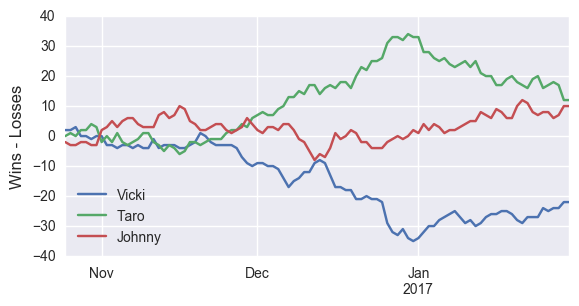
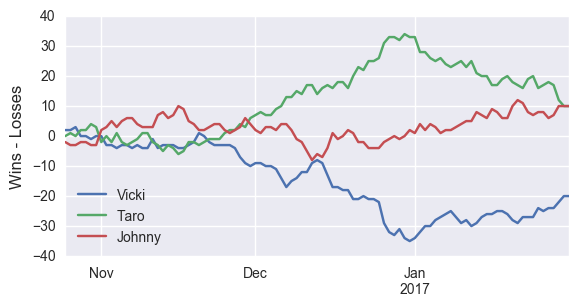
update 1/31

diff --git a/index.html b/index.html
@@ -35,32 +35,32 @@
 <a id="the-bet-is-on" class="anchor" href="#the-bet-is-on" aria-hidden="true"><span aria-hidden="true" class="octicon octicon-link"></span></a>The bet is on.</h1>
 
 <h1>
-<a id="current-winner-of-2016-17-season" class="anchor" href="#current-winner-of-2016-17-season" aria-hidden="true"><span aria-hidden="true" class="octicon octicon-link"></span></a>Current winner of 2016-17 Season (as of 1/30/2017):</h1>
+<a id="current-winner-of-2016-17-season" class="anchor" href="#current-winner-of-2016-17-season" aria-hidden="true"><span aria-hidden="true" class="octicon octicon-link"></span></a>Current winner of 2016-17 Season (as of 1/31/2017):</h1>
 
 <h2>
-<a id="none" class="anchor" href="#none" aria-hidden="true"><span aria-hidden="true" class="octicon octicon-link"></span></a><strong>Taro</strong>
+<a id="none" class="anchor" href="#none" aria-hidden="true"><span aria-hidden="true" class="octicon octicon-link"></span></a><strong>Johnny</strong>
 </h2>
 
 <h2>
 <a id="johnny" class="anchor" href="Johnny.html" aria-hidden="true"><span aria-hidden="true" class="octicon octicon-link"></span>Johnny</a></h2>
 
-<p>Wins: 244<br>
-Losses: 234<br>
-Remaining wins available: 293</p>
+<p>Wins: 246<br>
+Losses: 236<br>
+Remaining wins available: 291</p>
 
 <h2>
 <a id="taro" class="anchor" href="Taro.html" aria-hidden="true"><span aria-hidden="true" class="octicon octicon-link"></span>Taro</a></h2>
 
 <p>Wins: 246<br>
-Losses: 234<br>
-Remaining wins available: 290</p>
+Losses: 236<br>
+Remaining wins available: 289</p>
 
 <h2>
 <a id="vicki" class="anchor" href="Vicki.html" aria-hidden="true"><span aria-hidden="true" class="octicon octicon-link"></span>Vicki</a></h2>
 
-<p>Wins: 227<br>
-Losses: 249<br>
-Remaining wins available: 293</p>
+<p>Wins: 231<br>
+Losses: 251<br>
+Remaining wins available: 290</p>
 
 <img src='pythoncode/win_percent.png' alt='Winning Percentage Over Time'>
 <h1>

diff --git a/Vicki.html b/Vicki.html
@@ -35,9 +35,9 @@
 
 <h2>Vicki</h2>
 
-<p>Wins: 227<br>
-Losses: 249<br>
-Remaining wins available: 293</p>
+<p>Wins: 231<br>
+Losses: 251<br>
+Remaining wins available: 290</p>
 
 <h2> Current teams </h2>
 <table border="1">
@@ -49,15 +49,15 @@ Remaining wins available: 293</p>
 </tr>
 <tr>
 <td>Heat</td>
-<td>18</td>
+<td>19</td>
 <td>30</td>
-<td>34</td>
+<td>33</td>
 </tr>
 <tr>
 <td>Mavericks</td>
-<td>17</td>
+<td>18</td>
 <td>30</td>
-<td>35</td>
+<td>34</td>
 </tr>
 <tr>
 <td>Trail Blazers</td>
@@ -68,8 +68,8 @@ Remaining wins available: 293</p>
 <tr>
 <td>Cavaliers</td>
 <td>32</td>
-<td>14</td>
-<td>36</td>
+<td>15</td>
+<td>35</td>
 </tr>
 <tr>
 <td>Bulls</td>
@@ -79,15 +79,15 @@ Remaining wins available: 293</p>
 </tr>
 <tr>
 <td>76ers</td>
-<td>17</td>
+<td>18</td>
 <td>29</td>
-<td>36</td>
+<td>35</td>
 </tr>
 <tr>
 <td>Grizzlies</td>
-<td>28</td>
+<td>29</td>
 <td>21</td>
-<td>33</td>
+<td>32</td>
 </tr>
 <tr>
 <td>Clippers</td>
@@ -98,8 +98,8 @@ Remaining wins available: 293</p>
 <tr>
 <td>Suns</td>
 <td>15</td>
-<td>32</td>
-<td>35</td>
+<td>33</td>
+<td>34</td>
 </tr>
 <tr>
 <td>Pacers</td>

diff --git a/Johnny.html b/Johnny.html
@@ -35,9 +35,9 @@
 
 <h2>Johnny</h2>
 
-<p>Wins: 244<br>
-Losses: 234<br>
-Remaining wins available: 293</p>
+<p>Wins: 246<br>
+Losses: 236<br>
+Remaining wins available: 291</p>
 
 <h2> Current teams </h2>
 <table border="1">
@@ -61,9 +61,9 @@ Remaining wins available: 293</p>
 </tr>
 <tr>
 <td>Timberwolves</td>
-<td>18</td>
+<td>19</td>
 <td>29</td>
-<td>35</td>
+<td>34</td>
 </tr>
 <tr>
 <td>Hawks</td>
@@ -73,15 +73,15 @@ Remaining wins available: 293</p>
 </tr>
 <tr>
 <td>Celtics</td>
-<td>29</td>
+<td>30</td>
 <td>18</td>
-<td>35</td>
+<td>34</td>
 </tr>
 <tr>
 <td>Pistons</td>
 <td>21</td>
-<td>26</td>
-<td>35</td>
+<td>27</td>
+<td>34</td>
 </tr>
 <tr>
 <td>Nuggets</td>
@@ -104,8 +104,8 @@ Remaining wins available: 293</p>
 <tr>
 <td>Magic</td>
 <td>19</td>
-<td>30</td>
-<td>33</td>
+<td>31</td>
+<td>32</td>
 </tr>
 </table>
 

diff --git a/Taro.html b/Taro.html
@@ -36,8 +36,8 @@
 <h2>Taro</h2>
 
 <p>Wins: 246<br>
-Losses: 234<br>
-Remaining wins available: 290</p>
+Losses: 236<br>
+Remaining wins available: 289</p>
 
 <h2> Current teams </h2>
 <table border="1">
@@ -56,8 +56,8 @@ Remaining wins available: 290</p>
 <tr>
 <td>Nets</td>
 <td>9</td>
-<td>38</td>
-<td>35</td>
+<td>39</td>
+<td>34</td>
 </tr>
 <tr>
 <td>Thunder</td>
@@ -98,8 +98,8 @@ Remaining wins available: 290</p>
 <tr>
 <td>Kings</td>
 <td>19</td>
-<td>28</td>
-<td>35</td>
+<td>29</td>
+<td>34</td>
 </tr>
 <tr>
 <td>Pelicans</td>
